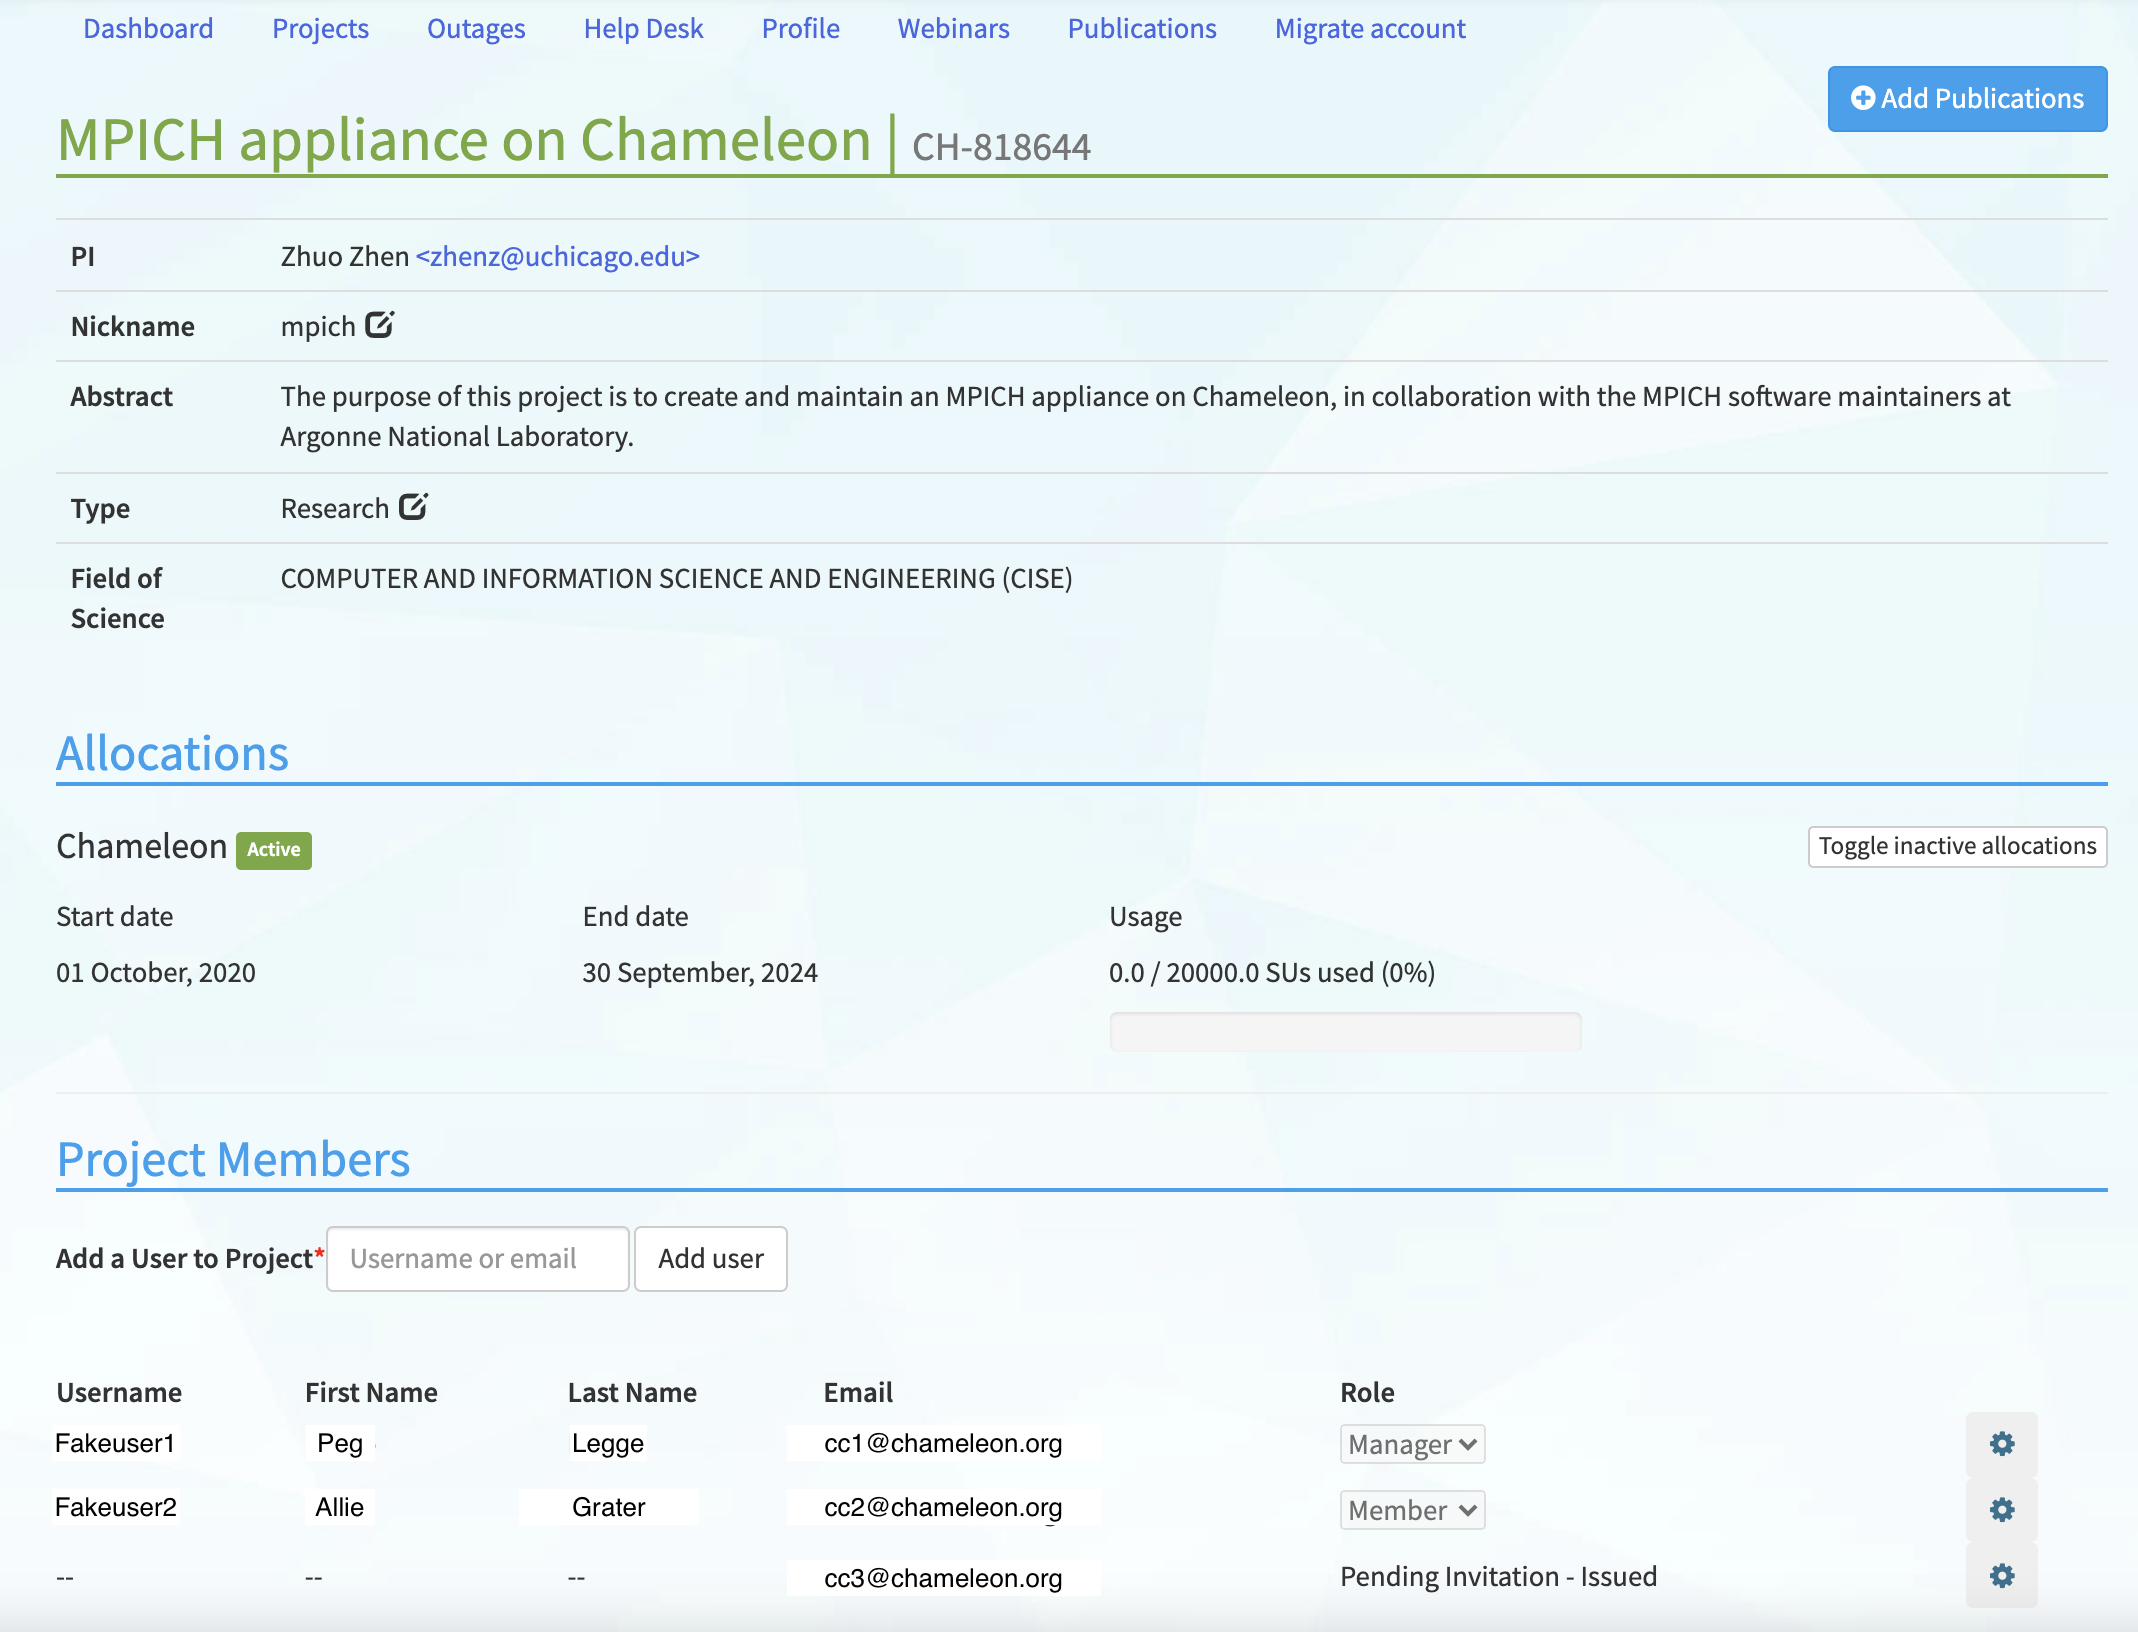
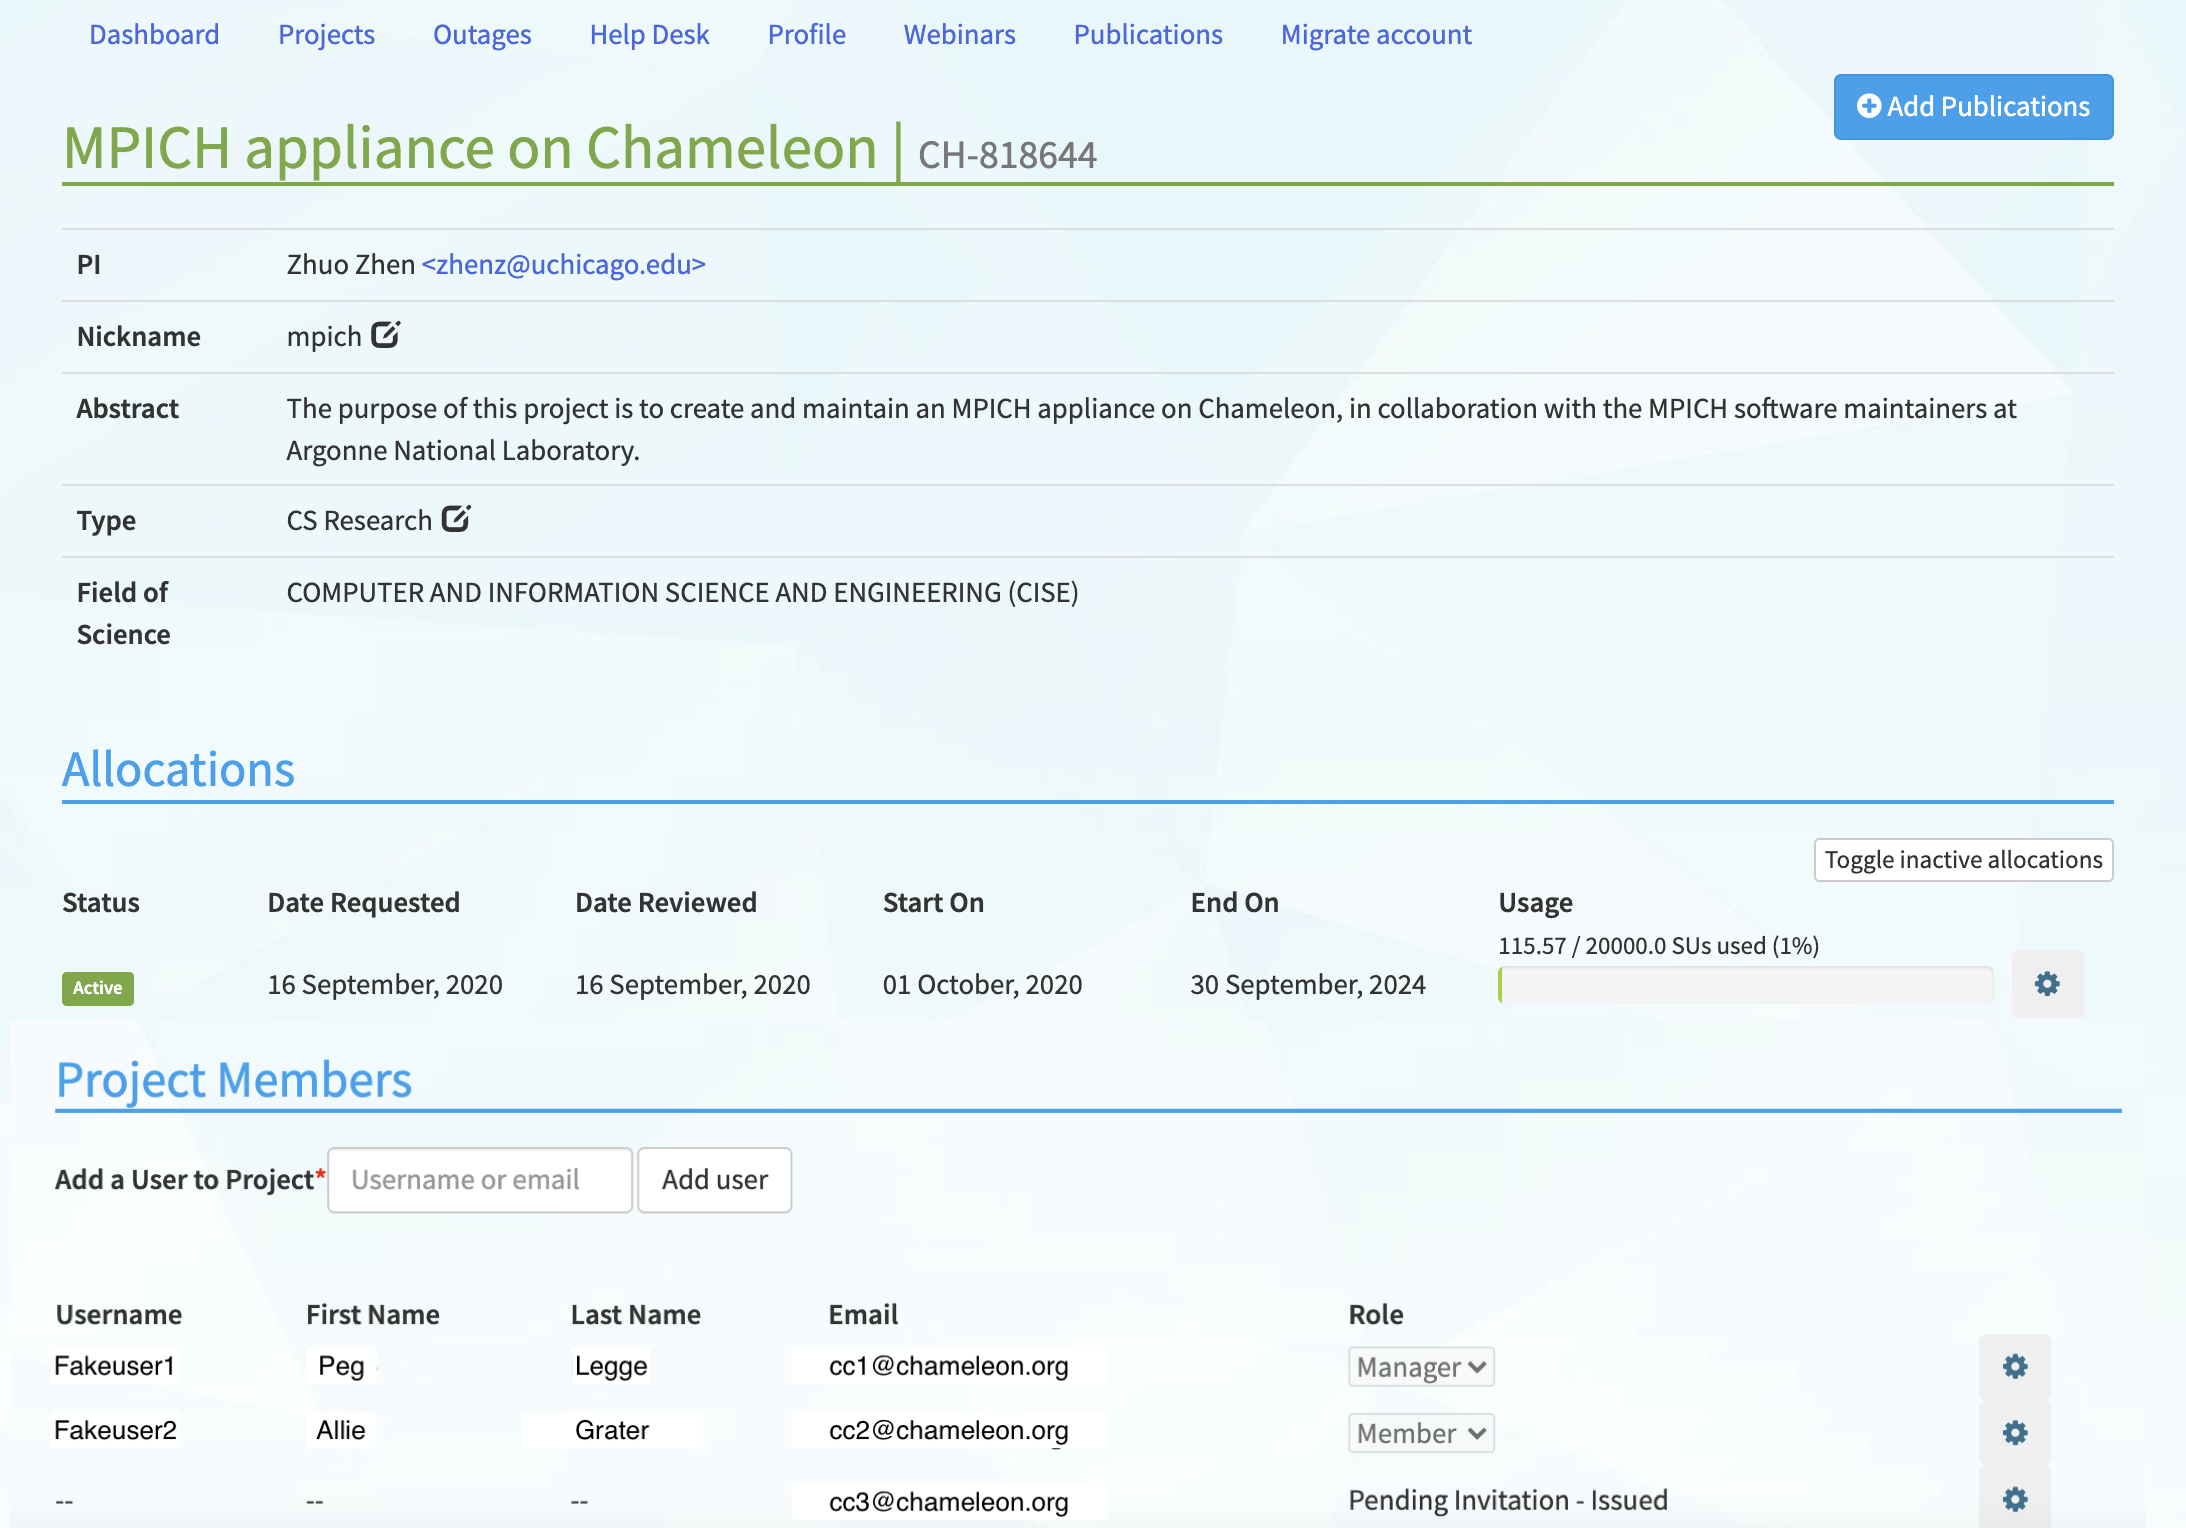
[project management] update recharge/extend allocation and add view allocation usage details

diff --git a/source/user/project.rst b/source/user/project.rst
@@ -93,21 +93,42 @@ Clicking on a project from either the :ref:`dashboard-page` main page or the
   Project details
 
 In the details page of your project, you may :ref:`recharge or extend your
-allocation <recharge-extend-allocation>` and :ref:`manage users <manage-users>`
-of your project.
+allocation <recharge-extend-allocation>`, :ref:`view allocation usage details <view-charge>`,
+and :ref:`manage users <manage-users>` of your project.
 
 .. _recharge-extend-allocation:
 
 Recharge or Extend Your Allocation
 ----------------------------------
 
+.. figure:: project/allocationactions.png
+  :alt: Allocation Actions
+
+  Allocation actions
+
 In the *Allocations* section of your :ref:`project-details`, you may view your
-project start and end dates, current *Service Unit* usage and request a *Service
-Unit* recharge or project extension. To request a *Service Unit* recharge or
-*Project* extension, click the link next to your project in the *Actions* column
-of this section. When requesting renewal or recharge of the allocations, we may
+project start and end dates, current *Service Unit* usage and request a
+*Service Unit* recharge or project extension. To request a *Service Unit* recharge or
+*Project* extension, click the *gear* button at the end of the
+allocation row, and then click *Recharge/Extend Allocation*. 
+When requesting renewal or recharge of the allocations, we may
 ask you to update your :ref:`publications dashboard <manage-publications>`, so
 keeping it up to date now can save you time later! 
+
+.. _view-charge:
+
+View Allocation Usage Details
+------------------------------
+
+.. figure:: project/allocationusagedetails.png
+  :alt: Allocation Usage Details
+
+  Allocation usage details
+
+To view the allocation usage details, in the *Allocations* section,
+click the *gear* button at the end of the
+allocation row, and then click *View Charge*. 
+
 
 .. _manage-publications:
 
